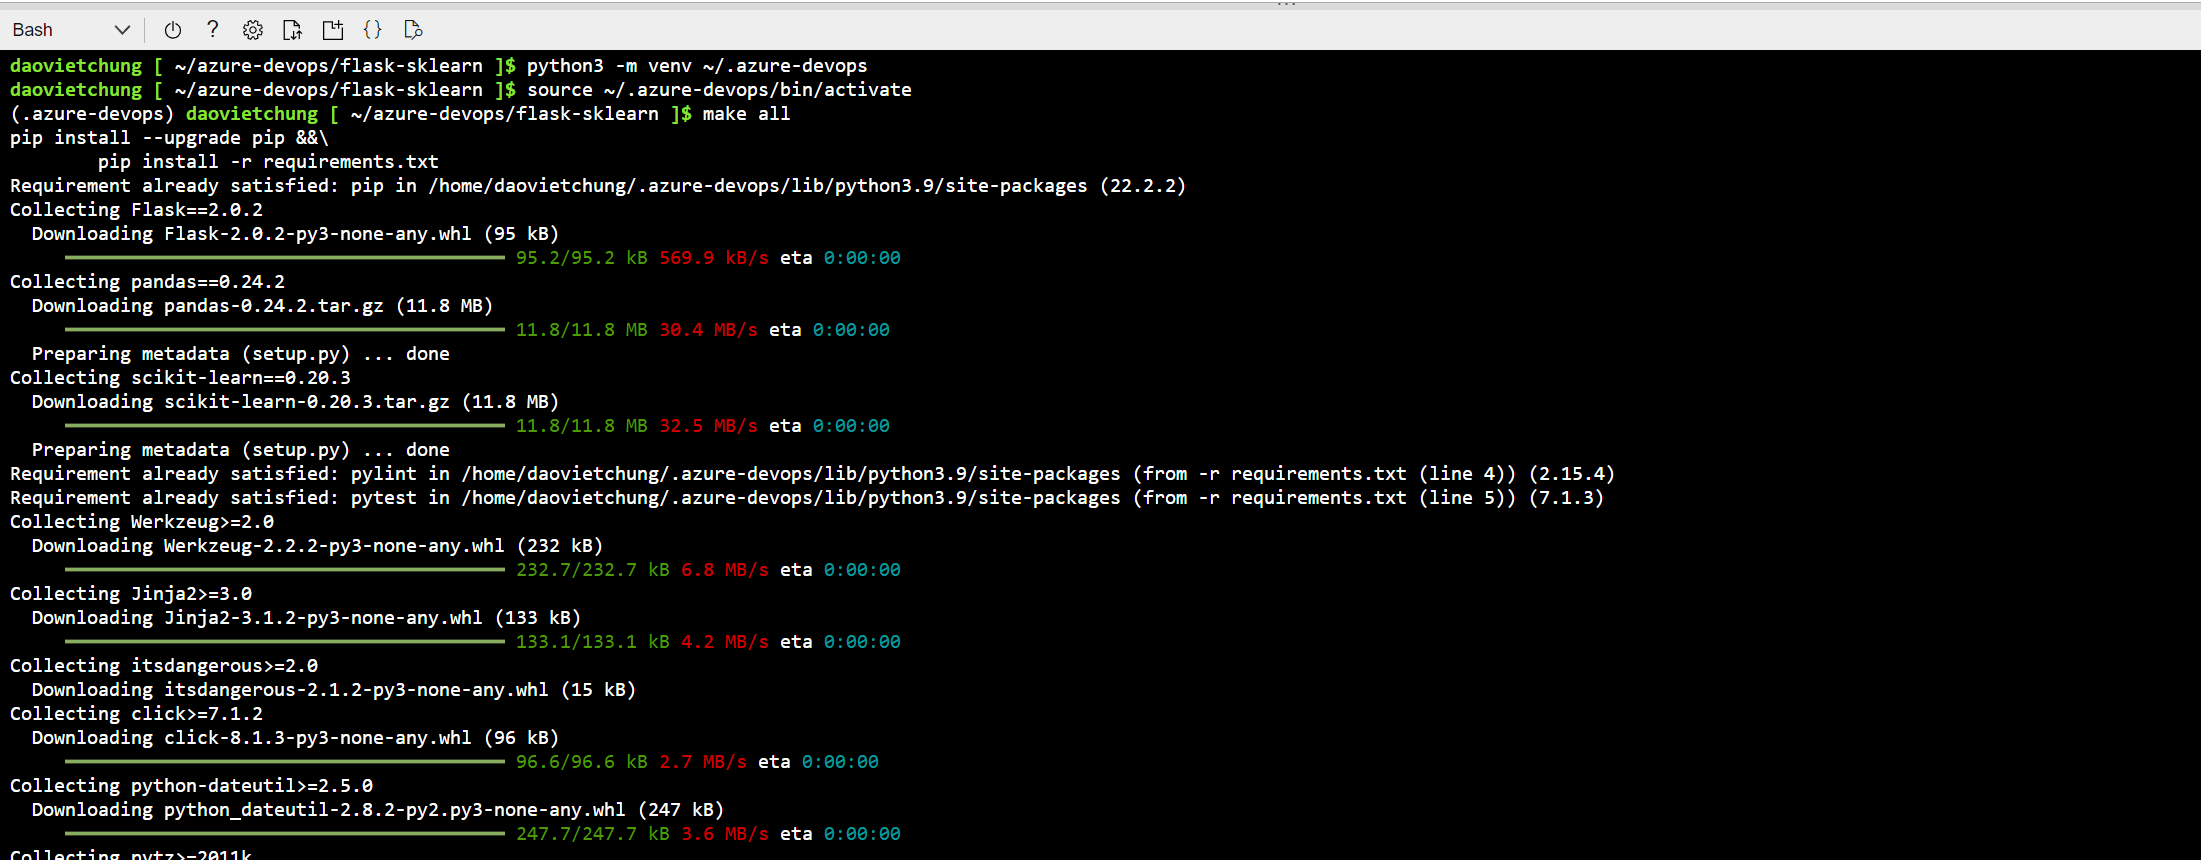
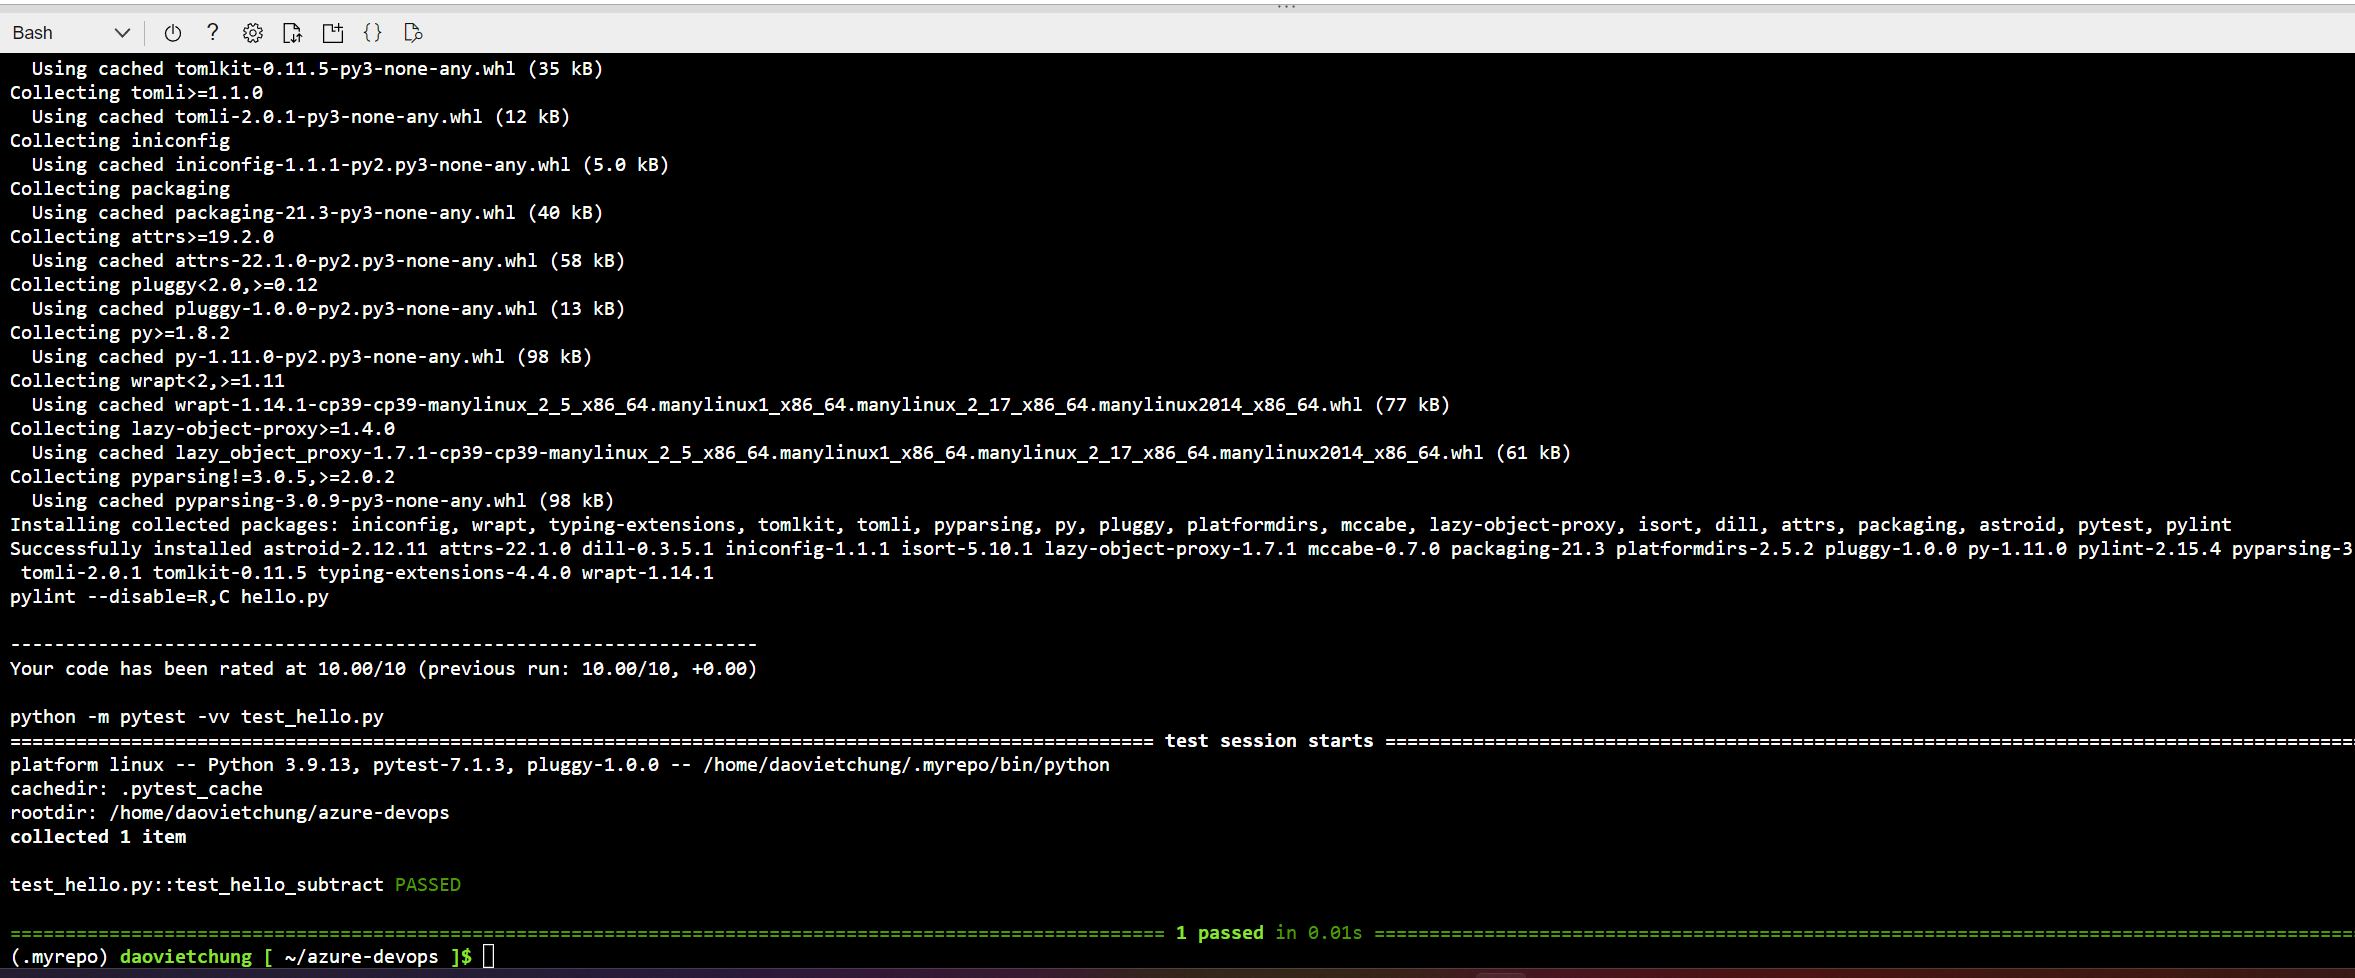
Update README and screenshots

Changed region(s): [[0.0, 0.0, 1.0, 1.0]]

diff --git a/README.md b/README.md
@@ -2,10 +2,12 @@
 
 In this project you will use Github Actions and Azure Pipelines to configure CI/CD. From there, the system will automatically lint, test and deploy the code to Azure App Service.
 
+Becasuse the machine learning application only runs on Python 3.7 and below, Azure Cloud Shell has Python 3.9 installed so you can not test this application. Therefore, I will demo the installation, lint and test code with <a href="https://github.com/daovietchung94/azure-devops" title="Hello application">hello application</a>. After that you will continue to configure CD using Azure Pipelines with the machine application.
+
 # Project Plan
 
-* Trello board: 
-* Project plan:
+* Trello board: https://trello.com/b/5tR95Mz3/udacity-demo
+* Project plan: https://docs.google.com/spreadsheets/d/14DtuwghqWaOR4hiwAYva4la1W68DIEWgzelkIorStW8/edit?usp=sharing
 
 # Instructions
 
@@ -37,8 +39,8 @@ Clone project into Azure Cloud Shell
 ### Create the Python Virtual Environment
 Remember that by creating a virtual environment in the home directory, it will not be accidentally checked out in your project.
 ```bash
-python3 -m venv ~/.azure-devops
-source ~/.azure-devops/bin/activate
+python3 -m venv ~/.myrepo
+source ~/.myrepo/bin/activate
 ```
 ![Python virtual environment](/images/virtual-env.png)
 
@@ -49,39 +51,125 @@ make all
 ```
 ![Make all](/images/make-all.png)
 
+### Configure CI with GitHub Actions
+You can use the <a href="https://github.com/daovietchung94/azure-devops/blob/master/.github/workflows/main.yml">config file</a> already in the <a href="https://github.com/daovietchung94/azure-devops">repository</a> or you can create on yourself.
 
+![GitHub Actions](/images/github-actions.png)
 
-* Project running on Azure App Service
+Go to GitHub Actions and you can see all the workflows.
 
-* Project cloned into Azure Cloud Shell
+![GitHub workflows](/images/github-workflows.png)
 
-* Passing tests that are displayed after running the `make all` command from the `Makefile`
+If everything works perfectly then there will be blue icon, and vice versa there will be red icon and you can click on it to see exactly which step the error is coming from.
 
-* Output of a test run
+![GitHub error workflow](/images/github-error-workflow.png)
 
-* Successful deploy of the project in Azure Pipelines.  [Note the official documentation should be referred to and double checked as you setup CI/CD](https://docs.microsoft.com/en-us/azure/devops/pipelines/ecosystems/python-webapp?view=azure-devops).
+You can make a few changes to see the github action running.
 
-* Running Azure App Service from Azure Pipelines automatic deployment
+### Configure CD with Azure Pipelines
 
-* Successful prediction from deployed flask app in Azure Cloud Shell.  [Use this file as a template for the deployed prediction](https://github.com/udacity/nd082-Azure-Cloud-DevOps-Starter-Code/blob/master/C2-AgileDevelopmentwithAzure/project/starter_files/flask-sklearn/make_predict_azure_app.sh).
-The output should look similar to this:
+Clone the project into Azure Cloud Shell
 
+![Flask SKLearn](/images/clone-project-sklearn.png)
+
+Create and deploy the code to Azure App Service with this command:
 ```bash
-udacity@Azure:~$ ./make_predict_azure_app.sh
-Port: 443
-{"prediction":[20.35373177134412]}
+ az webapp up -n <web app name> --location eastus --resource-group <your resource group name> --sku F1 --os-type "Linux" --runtime "PYTHON:3.7"
 ```
 
-* Output of streamed log files from deployed application
+![Azure App Service](/images/azure-app-service.png)
 
-> 
+![Azure App Service](/images/azure-app-service-2.png)
+
+Project running on Azure App Service : `http://<web app name>.azurewebsites.net`
+
+You can test with Postman with request body:
+```json
+{
+    "CHAS": {
+        "0": 0
+    },
+    "RM": {
+        "0": 6.575
+    },
+    "TAX": {
+        "0": 296.0
+    },
+    "PTRATIO": {
+        "0": 15.3
+    },
+    "B": {
+        "0": 396.9
+    },
+    "LSTAT": {
+        "0": 4.98
+    }
+}
+```
+
+![Postman](/images/post-man.png)
+
+Configure CI with Github Actions similar to the instructions above
+
+![GitHub Actions](/images/github-actions-flask-sklearn.png)
+
+![GitHub Workflows](/images/github-workflows-sklearn.png)
+
+Login to Azure DevOps, create project and service connection.
+
+Project settings -> Pipelines -> Service connections -> New service connection -> Select Azure Resource Manager
+
+For more details, you can follow the instructions at the link: 
+https://learn.microsoft.com/en-us/azure/devops/pipelines/ecosystems/python-webapp?view=azure-devops
+
+![Service Connection](/images/service-connection.png)
+
+Next you need create a pipeline.
+
+Pipelines -> New pipeline -> Github -> Select your repository -> Select Existing Azure Pipeline YAML file
+
+![Azure Pipeline](/images/azure-pipeline.png)
+
+Choose your master branch and your YAML file then click Continue.
+
+![Azure Pipeline Detail](/images/azure-pipeline-detail.png)
+
+Replace <code>azureServiceConnectionId</code> and <code>webAppName</code> with your values then click <code>Run</code>
+
+Azure Pipeline will start running following the steps that you can see as shown below. Once all the steps are done, the code has been deployed to Azure App Service.
+
+![Azure Pipeline Result](/images/azure-pipeline-result-1.png)
+
+![Azure Pipeline Result](/images/azure-pipeline-result-2.png)
+
+You can check by following the link and check again with Postman as instructed above or you can update the file <code>make_predict_azure_app.sh</code> with your webapp url and run this file on Azure Cloud Shell
+
+![Make predict](/images/make-predict.png)
+
+You can inspect the logs from running application with the command:
+```bash
+az webapp log tail
+```
+
+![Application Logs](/images/logs-1.png)
+
+Make a change to your app.py, so you can see your CI/CD pipeline on GitHub Actions and Azure DevOps.
+
+I update home page title from <code>Sklearn Prediction Home</code> to <code>Sklearn Prediction Home - Updated</code> and commit to GitHub
+
+![Github Actions](/images/ci-home-page.png)
+
+![Azure Pipeline](/images/azure-home-page.png)
+
+![SKLearn](/images/sklearn-updated.png)
 
 ## Enhancements
 
-<TODO: A short description of how to improve the project in the future>
+* Create a friendly UI
+* Run the app on AKS
 
 ## Demo 
 
-<TODO: Add link Screencast on YouTube>
+https://www.youtube.com/watch?v=ekmOYnMDJPg
 
 
